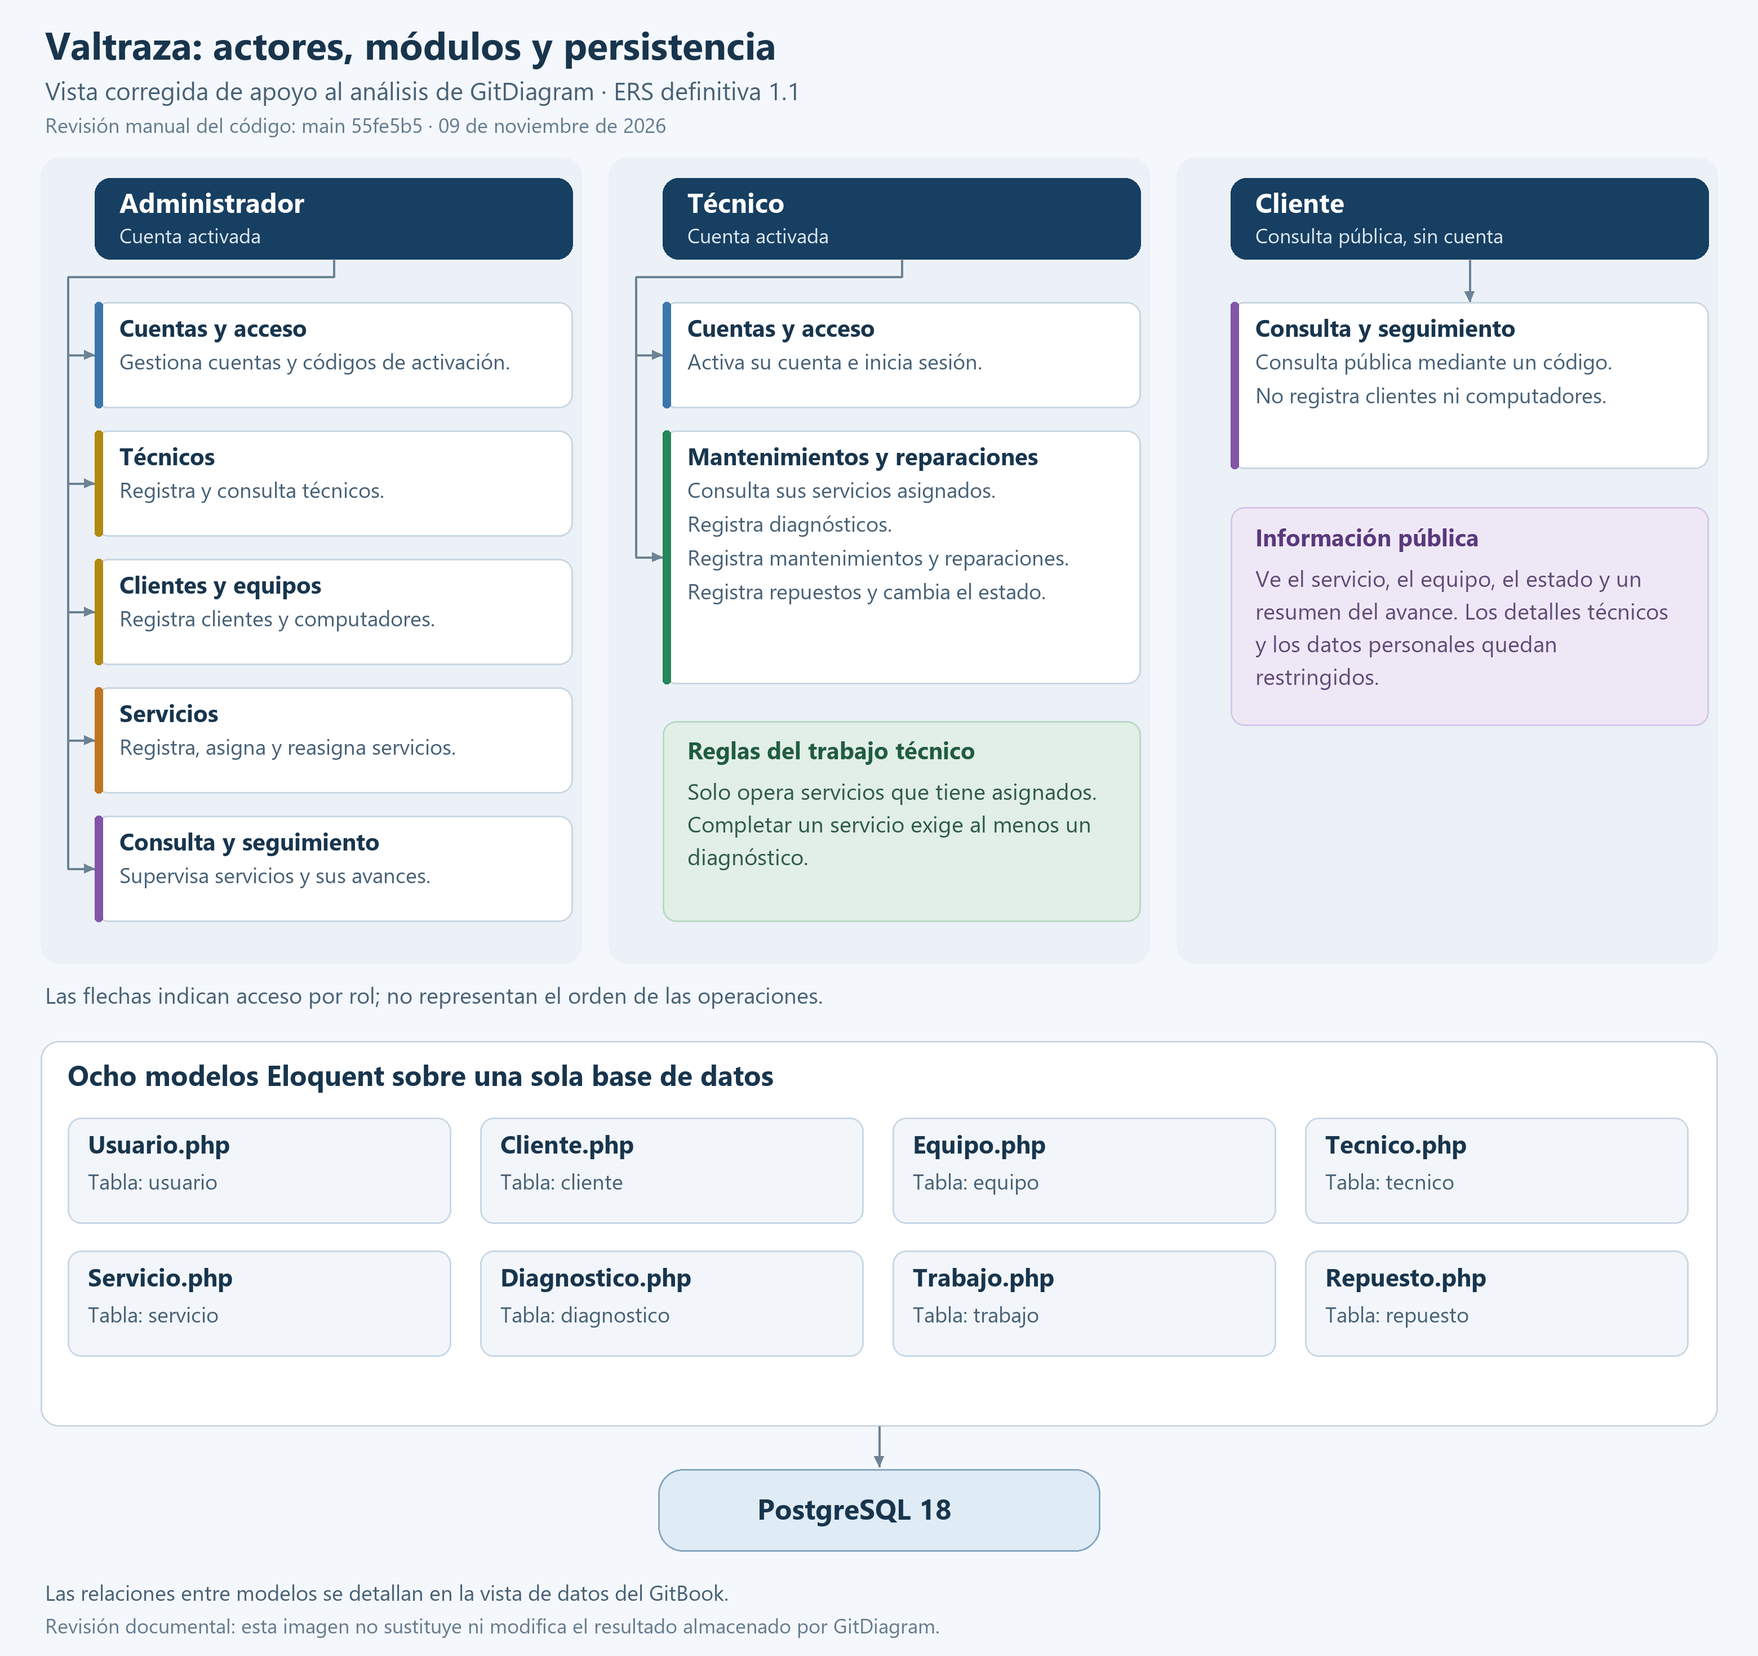
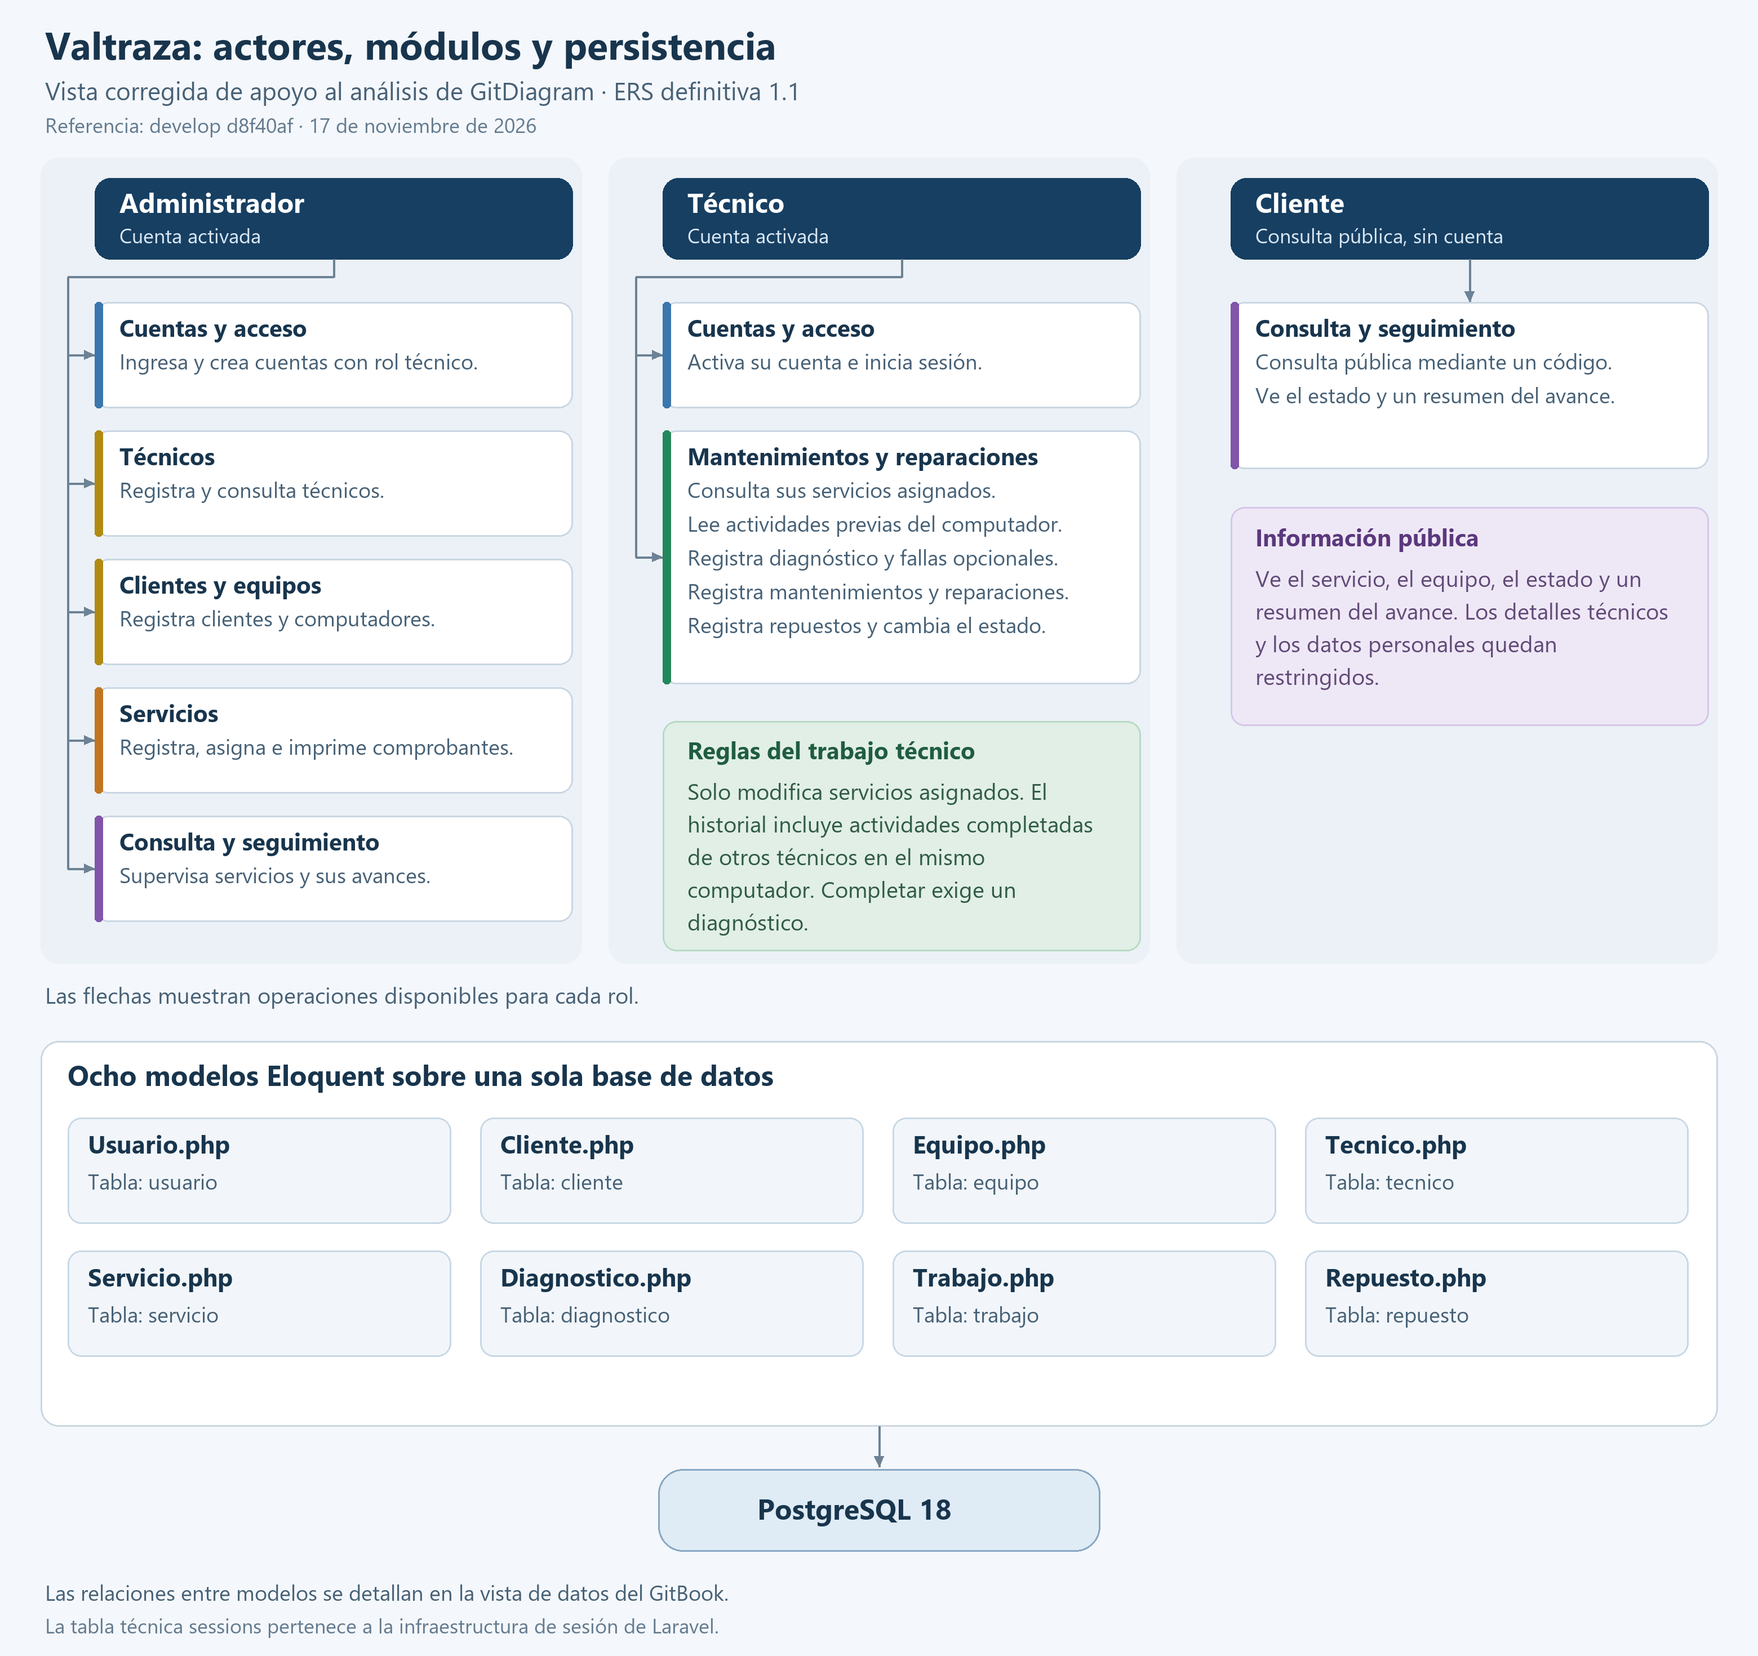
Alinea los diagramas de arquitectura con Valtraza

diff --git a/docs/arquitectura/analisis-gitdiagram.md b/docs/arquitectura/analisis-gitdiagram.md
@@ -1,73 +1,43 @@
 # Análisis de GitDiagram
 
-## Enlace público y versión de referencia
+## Diagrama público regenerado
 
-**[Abrir el diagrama público de Valtraza en GitDiagram](https://gitdiagram.com/meneses1111/valtraza-valletech)**
+[Diagrama interactivo](https://gitdiagram.com/meneses1111/valtraza-valletech) · [Exportación Markdown del generador](https://gitdiagram.com/meneses1111/valtraza-valletech.md)
 
-El análisis corresponde al proyecto Valtraza del equipo ValleTech. Se contrasta la captura `diagram.png`, compartida por Johan el **09 de noviembre de 2026** después de indicar que regeneró el diagrama, con la ERS definitiva 1.1 y el código de la entrega en `main` **55fe5b5858397cca57444dcb8c786b6ad896d813**.
+Se regeneró y comprobó el grafo público el **17 de noviembre de 2026**. GitDiagram enlaza al código de `main` y la salida no indica el commit exacto que leyó. La revisión documental de esta página se contrastó con la ERS 1.1 y `develop` `d8f40af`.
 
-Ese SHA identifica el código utilizado para esta revisión manual. La captura no muestra el SHA que GitDiagram ingirió: no se atribuye al generador una versión exacta que no pueda comprobarse. El enlace público puede mostrar otro resultado si posteriormente se regenera.
+El grafo regenerado ubica el inicio de sesión en administrador y técnico, y la consulta pública por código en el cliente. Carga la cuenta desde `Usuario` y distingue `Diagnostico`, `Trabajo` y `Repuesto`. Estas diferencias respecto de las capturas anteriores quedan corregidas en el generador.
 
-Esta página reúne el **análisis y el enlace público** solicitados en la actividad. La vista corregida que se incluye más adelante es una elaboración manual contrastada con el código; no modifica el resultado almacenado en GitDiagram.
+## Diferencias que conserva el grafo automático
 
-## Lectura del resultado generado
-
-El resultado reconoce tres actores —administrador, técnico y cliente— y agrupa funcionalidades de acceso, recepción y asignación, trabajo técnico, consulta y supervisión. También relaciona servicios de aplicación, modelos y una base de datos común. Esta agrupación permite ubicar las responsabilidades generales del sistema, aunque no reproduce literalmente los seis módulos acordados.
-
-La lectura es coherente con una aplicación Laravel organizada mediante MVC y capas: las rutas llegan a controladores, estos utilizan servicios de aplicación y los modelos Eloquent acceden a PostgreSQL. La separación entre consulta pública y supervisión también aparece en la imagen. Sin embargo, el grafo mezcla niveles de detalle y contiene asignaciones de responsabilidad que deben corregirse al explicarlo.
-
-## Diferencias encontradas y corrección
-
-| Elemento observado en la captura | Contraste con la implementación | Corrección documental |
-| --- | --- | --- |
-| El cliente tiene una flecha «inicia sesión» hacia Acceso. | El cliente no tiene cuenta. La consulta por código es pública, conforme a RF14. | Conectar al cliente únicamente con la consulta pública por código. El acceso autenticado corresponde al administrador y al técnico. |
-| El cliente tiene una flecha «registra datos» hacia Registro de clientes. | Las rutas de registro de clientes y equipos exigen autenticación y rol administrador. | Atribuir esos registros al administrador. |
-| El bloque de registros técnicos se representa con `Diagnostico.php`. | El servicio técnico conserva diagnósticos, trabajos y repuestos como modelos distintos, además del estado del servicio. | Explicitar `Diagnostico.php`, `Trabajo.php` y `Repuesto.php` y las operaciones sobre el estado. |
-| El registro de técnicos aparece como una dependencia consultada por la gestión de servicios. | La selección de técnicos para asignar un servicio es distinta del registro de técnicos, reservado al administrador. | Mostrar al administrador como responsable del registro de técnicos y mantener la consulta de técnicos para la asignación. |
-
-La omisión de una clase en un resumen visual no demuestra que falte su implementación. En este caso, `Trabajo.php` y `Repuesto.php` existen, y `Servicio` declara las relaciones `diagnosticos()`, `trabajos()` y `repuestos()`. Las flechas incorrectas de los actores tampoco representan los permisos efectivos: estos se controlan en rutas y servicios.
-
-## Vista corregida de actores, módulos y persistencia
-
-![Vista revisada: permisos de los tres actores, seis módulos y ocho modelos](../assets/arquitectura-revisada.svg)
-
-Descargas: [imagen PNG](../assets/arquitectura-revisada.png), [SVG ampliable](../assets/arquitectura-revisada.svg) y [fuente Mermaid de actores y módulos](../assets/actores-modulos.mmd).
-
-Las flechas de esta vista indican qué actor utiliza cada módulo. No son una secuencia de ejecución ni relaciones entre tablas. Un mismo módulo puede aparecer en más de una columna porque sus operaciones se autorizan según el rol; supervisión administrativa y consulta pública forman parte del módulo Consulta y seguimiento.
-
-## Correspondencia con los seis módulos
-
-| Módulo acordado | Responsabilidad comprobada |
+| Lo que muestra GitDiagram | Cómo funciona Valtraza |
 | --- | --- |
-| Clientes y equipos | El administrador registra clientes y computadores y consulta su historial. |
-| Técnicos | El administrador registra y consulta técnicos; sus datos se usan al crear cuentas y asignar servicios. |
-| Cuentas y acceso | Activación e ingreso de administrador y técnico; creación de cuentas técnicas por el administrador. |
-| Servicios | El administrador registra servicios, genera sus códigos, asigna o reasigna técnicos y consulta los servicios. |
-| Mantenimientos y reparaciones | El técnico consulta sus servicios asignados y registra diagnósticos, actividades, repuestos y cambios de estado. |
-| Consulta y seguimiento | El administrador supervisa los servicios; el cliente consulta el estado y un resumen permitido mediante el código de seguimiento. |
+| Agrupa recepción, asignación y registro de técnicos. | El diseño distingue **Clientes y equipos**, **Técnicos** y **Servicios**. El administrador registra a los técnicos, y Servicios consulta ese registro para asignar un encargado. |
+| Atribuye la creación de cuentas al registro de técnicos. | `CuentasController` coordina la operación y `Acceso` crea una cuenta con rol fijo de técnico. `RegistroTecnicos` se ocupa del registro de personas. |
+| Atribuye el historial del equipo al controlador de registro de servicios. | La ficha administrativa utiliza `FichaClienteController` y `HistorialEquipos`. Desde un servicio asignado, el técnico puede leer actividades anteriores completadas del mismo computador, incluso de otro técnico. El acceso directo a un servicio ajeno sigue restringido. |
+| Resume el trabajo técnico y la consulta pública. | Trabajo técnico aplica la regla de completar con diagnóstico. Consulta pública usa `GestionServicios` y `LecturaAvance`; obtiene el computador por el servicio y presenta un resumen sin detalles técnicos ni datos personales. |
 
-Las dependencias entre módulos se explican en la [arquitectura del sistema](README.md). Servicios utiliza Clientes y equipos y Técnicos; el trabajo técnico utiliza Servicios; la consulta reúne información de los servicios y de su avance. La regla de completar con diagnóstico se aplica en la operación de trabajo técnico.
+## Vista de referencia del GitBook
 
-## Modelo de datos completo
+![Roles, módulos y persistencia de Valtraza](../assets/arquitectura-revisada.svg)
 
-![Ocho tablas y sus relaciones principales](../assets/relaciones-datos.svg)
+[Descargar PNG](../assets/arquitectura-revisada.png) · [Abrir SVG](../assets/arquitectura-revisada.svg) · [Fuente Mermaid](../assets/actores-modulos.mmd)
 
-Los ocho modelos son `Usuario`, `Cliente`, `Equipo`, `Tecnico`, `Servicio`, `Diagnostico`, `Trabajo` y `Repuesto`. Cada servicio corresponde a un equipo; el cliente se obtiene a través de ese equipo. El servicio puede estar sin técnico mientras permanece pendiente, y reúne sus diagnósticos, trabajos y repuestos. La cuenta de un técnico se vincula con su registro de técnico; el administrador no utiliza esa vinculación.
+| Módulo | Responsabilidad |
+| --- | --- |
+| Clientes y equipos | Registro de clientes y computadores, y consulta de la ficha e historial desde administración. |
+| Técnicos | Registro administrativo de técnicos, consultado para asignaciones y cuentas. |
+| Cuentas y acceso | Ingreso y activación, creación de cuentas de técnicos por el administrador. |
+| Servicios | Registro, códigos, asignación, reasignación y comprobante. |
+| Mantenimientos y reparaciones | Servicios asignados, historial de actividades completadas del computador en solo lectura, diagnósticos, trabajos, repuestos y estado. |
+| Consulta y seguimiento | Supervisión administrativa y consulta del cliente por código sin cuenta. |
 
-La consulta pública presenta el servicio, el computador, el estado y un resumen del avance. No entrega al cliente los datos personales ni el detalle de diagnósticos, trabajos y repuestos. El [modelo de datos](../base-de-datos/modelo.md) contiene las claves, restricciones y reglas de persistencia.
+El [diagrama de módulos y dependencias](README.md) muestra el monolito Laravel 12 y PHP 8.3. El diagrama de actores representa el acceso por rol. Los ocho modelos de negocio persisten en PostgreSQL. `sessions` es una tabla técnica de Laravel. Consulta el [modelo de datos](../base-de-datos/modelo.md) para ver claves y relaciones.
 
-## Fuentes comprobadas
+## Fuentes de código y pruebas
 
-Las siguientes referencias quedan fijadas al código utilizado para la revisión:
-
-- [Consulta pública sin autenticación](https://github.com/meneses1111/Valtraza-Valletech/blob/55fe5b5858397cca57444dcb8c786b6ad896d813/routes/modulos/consulta-publica.php).
-- [Clientes y equipos: rutas del administrador](https://github.com/meneses1111/Valtraza-Valletech/blob/55fe5b5858397cca57444dcb8c786b6ad896d813/routes/modulos/clientes-equipos.php).
-- [Técnicos: rutas del administrador](https://github.com/meneses1111/Valtraza-Valletech/blob/55fe5b5858397cca57444dcb8c786b6ad896d813/routes/modulos/tecnicos.php).
-- [Trabajo técnico: rutas de diagnósticos, trabajos, repuestos y estado](https://github.com/meneses1111/Valtraza-Valletech/blob/55fe5b5858397cca57444dcb8c786b6ad896d813/routes/modulos/trabajo-tecnico.php).
-- [Modelo Servicio y sus relaciones](https://github.com/meneses1111/Valtraza-Valletech/blob/55fe5b5858397cca57444dcb8c786b6ad896d813/app/Models/Servicio.php).
-- [Operaciones sobre servicios asignados y comprobación de diagnóstico](https://github.com/meneses1111/Valtraza-Valletech/blob/55fe5b5858397cca57444dcb8c786b6ad896d813/app/Services/TrabajoTecnico/RegistroTrabajoTecnico.php).
-- [Campos permitidos en la consulta pública](https://github.com/meneses1111/Valtraza-Valletech/blob/55fe5b5858397cca57444dcb8c786b6ad896d813/app/Services/Consulta/ConsultaPublica.php).
-
-## Conclusión
-
-GitDiagram ayuda a reconocer las áreas del repositorio y sus relaciones generales. La revisión detectó errores de atribución al cliente y una representación incompleta de los registros técnicos. La vista corregida y las referencias al código aclaran esas diferencias sin cambiar la aplicación ni presentar la salida automática como una especificación exacta. La comprobación de requisitos y la aceptación del sistema se sustentan en la [matriz y las evidencias de pruebas](../pruebas/estado-y-evidencias.md), no en la apariencia del grafo.
+- [Creación de cuentas](https://github.com/meneses1111/Valtraza-Valletech/blob/d8f40afb652931628c5b775c1fbe8fc9826213e5/app/Http/Controllers/CuentasController.php) y [servicio de acceso](https://github.com/meneses1111/Valtraza-Valletech/blob/d8f40afb652931628c5b775c1fbe8fc9826213e5/app/Services/Cuentas/Acceso.php).
+- [Registro de técnicos](https://github.com/meneses1111/Valtraza-Valletech/blob/d8f40afb652931628c5b775c1fbe8fc9826213e5/app/Services/Tecnicos/RegistroTecnicos.php), [registro y asignación](https://github.com/meneses1111/Valtraza-Valletech/blob/d8f40afb652931628c5b775c1fbe8fc9826213e5/app/Http/Controllers/Servicios/ServiciosController.php) y [ficha administrativa del cliente](https://github.com/meneses1111/Valtraza-Valletech/blob/d8f40afb652931628c5b775c1fbe8fc9826213e5/app/Http/Controllers/Servicios/FichaClienteController.php).
+- [Asignación, autorización e historial](https://github.com/meneses1111/Valtraza-Valletech/blob/d8f40afb652931628c5b775c1fbe8fc9826213e5/app/Services/Servicios/GestionServicios.php) y [reglas de trabajo técnico](https://github.com/meneses1111/Valtraza-Valletech/blob/d8f40afb652931628c5b775c1fbe8fc9826213e5/app/Services/TrabajoTecnico/RegistroTrabajoTecnico.php).
+- [Ruta pública](https://github.com/meneses1111/Valtraza-Valletech/blob/d8f40afb652931628c5b775c1fbe8fc9826213e5/routes/modulos/consulta-publica.php) y [campos permitidos](https://github.com/meneses1111/Valtraza-Valletech/blob/d8f40afb652931628c5b775c1fbe8fc9826213e5/app/Services/Consulta/ConsultaPublica.php).
+- [Pruebas y evidencias por versión](../pruebas/estado-y-evidencias.md).

diff --git a/docs/arquitectura/README.md b/docs/arquitectura/README.md
@@ -35,7 +35,7 @@ Servicios no depende de Mantenimientos y reparaciones. La condición de completa
 | Observador | Generación de códigos y notificación de nuevos registros de avance |
 | Estado | Clases Pendiente, EnCurso y Completado para aplicar el estado del servicio |
 
-Los detalles del cambio de estado y la asignación están descritos en [Trabajo técnico](../uso/trabajo-tecnico.md). El resultado de GitDiagram compartido por Johan se contrastó con el código de la entrega. Las diferencias, la versión de referencia y la vista corregida se documentan en el [análisis de GitDiagram](analisis-gitdiagram.md).
+Los detalles del cambio de estado, el historial del computador y la asignación están en [Trabajo técnico](../uso/trabajo-tecnico.md). El [análisis de GitDiagram](analisis-gitdiagram.md) compara el grafo público regenerado con estas responsabilidades y contiene la vista de referencia por rol.
 
 Los observers emiten `ServicioActualizado` al confirmar la transacción. La pantalla que guarda redirige al detalle y las demás vistas muestran el estado al volver a consultarse.
 
@@ -43,4 +43,4 @@ Los observers emiten `ServicioActualizado` al confirmar la transacción. La pant
 
 ![Seis módulos y sus dependencias de consumo](../assets/modulos.svg)
 
-La vista resume las dependencias entre los servicios de los seis módulos. No sustituye el análisis final con GitDiagram ni representa cada llamada a un controlador o modelo. Los tres actores ingresan por rutas con los permisos correspondientes.
+La vista resume las dependencias principales entre módulos. La composición de supervisión y de la ficha del cliente se realiza en el controlador. El administrador y el técnico usan rutas autenticadas. El cliente consulta por código en una ruta pública.

diff --git a/README.md b/README.md
@@ -16,6 +16,14 @@ El cliente consulta con un código de seguimiento y no necesita cuenta. Administ
 
 El GitBook está publicado en GitHub Pages. El workflow **Revisar GitBook** comprueba las páginas, la navegación y los recursos antes de desplegar desde `main`; después verifica por HTTPS las páginas públicas y sus recursos. Las ejecuciones también conservan una vista previa descargable.
 
+## Arquitectura
+
+El sistema se organiza en seis módulos: Clientes y equipos, Técnicos, Cuentas y acceso, Servicios, Mantenimientos y reparaciones, y Consulta y seguimiento.
+
+`CuentasController` usa `Acceso` para crear cuentas de técnicos. `RegistroTecnicos` registra a las personas y Servicios consulta ese registro para asignarlas. `FichaClienteController` usa `HistorialEquipos` para la ficha administrativa. El técnico modifica sus servicios asignados y puede leer las actividades completadas del mismo equipo. Diagnósticos, trabajos y repuestos se guardan en modelos Eloquent distintos.
+
+Consulta el [diagrama revisado y la comparación con GitDiagram](docs/arquitectura/analisis-gitdiagram.md).
+
 ## Entorno de la aplicación
 
 Laravel 12, PHP 8.3, PostgreSQL 18, Blade y Bootstrap 5.3. El entorno de pruebas de referencia usa Nginx con HTTPS (Herd en Windows). Los recursos de interfaz están incluidos en `public/assets`; no hace falta compilar JavaScript para iniciar la aplicación.
